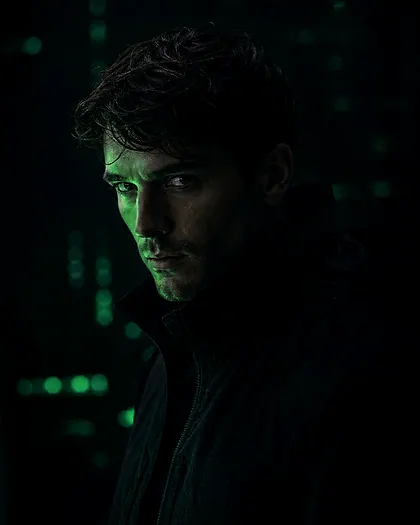
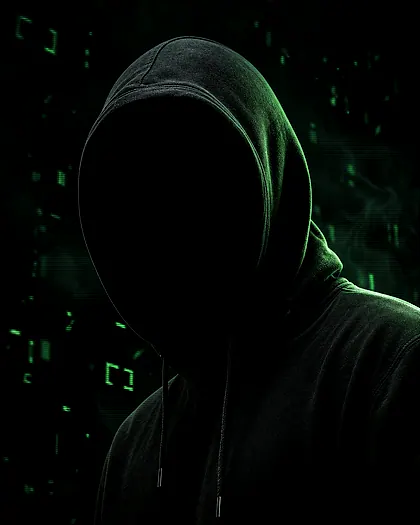
Replace operative portraits with anonymous faceless hooded figures

diff --git a/src/lib/media.ts b/src/lib/media.ts
@@ -28,37 +28,37 @@ export const MEDIA = {
     base: '/media/operative-ghost',
     widths: [420, 700, 1000],
     ratio: 4 / 5,
-    alt: 'Lead operative GHOST in a dark command centre, face half in shadow with green intelligence displays behind him',
+    alt: 'Anonymous hooded figure in black, centred against near-total darkness, face hidden in a black void with a green rim light',
   },
   operativeShadow: {
     base: '/media/operative-shadow',
     widths: [420, 700, 1000],
     ratio: 4 / 5,
-    alt: 'Technical specialist SHADOW lit by neon green, sitting at a dark workstation with encrypted code interfaces behind him',
+    alt: 'Anonymous hooded figure in black seated beside a dark workstation, face unseen, lit by a faint green monitor glow',
   },
   operativePhantom: {
     base: '/media/operative-phantom',
     widths: [420, 700, 1000],
     ratio: 4 / 5,
-    alt: 'Stealth operative PHANTOM in profile in a dark concrete corridor, one band of green light across the face',
+    alt: 'Anonymous hooded silhouette turned at an angle, its outline doubled by motion echoes and traced by restrained green rim light',
   },
   operativeSpectre: {
     base: '/media/operative-spectre',
     widths: [420, 700, 1000],
     ratio: 4 / 5,
-    alt: 'Adaptable technical specialist SPECTRE in a cyber operations room, layered green holographic interfaces behind him',
+    alt: 'Anonymous hooded figure in black standing in a dark cyber operations room, face a black void, green interface light across the clothing',
   },
   operativeCipher: {
     base: '/media/operative-cipher',
     widths: [420, 700, 1000],
     ratio: 4 / 5,
-    alt: 'Emerging operative CIPHER emerging from darkness, lit by green light with soft encrypted glyphs drifting behind',
+    alt: 'Anonymous hooded figure in black framed from a low angle, face unseen, with fragments of green encrypted data drifting behind',
   },
   operativeMaverick: {
     base: '/media/operative-maverick',
     widths: [420, 700, 1000],
     ratio: 4 / 5,
-    alt: 'Intelligence analyst MAVERICK in front of holographic data maps and network graphs in a dark analysis room',
+    alt: 'Anonymous hooded figure in black seen from behind, facing dim green intelligence maps and network graphs in a dark room',
   },
   missionZeroSecure: {
     base: '/media/mission-zerosecure',
